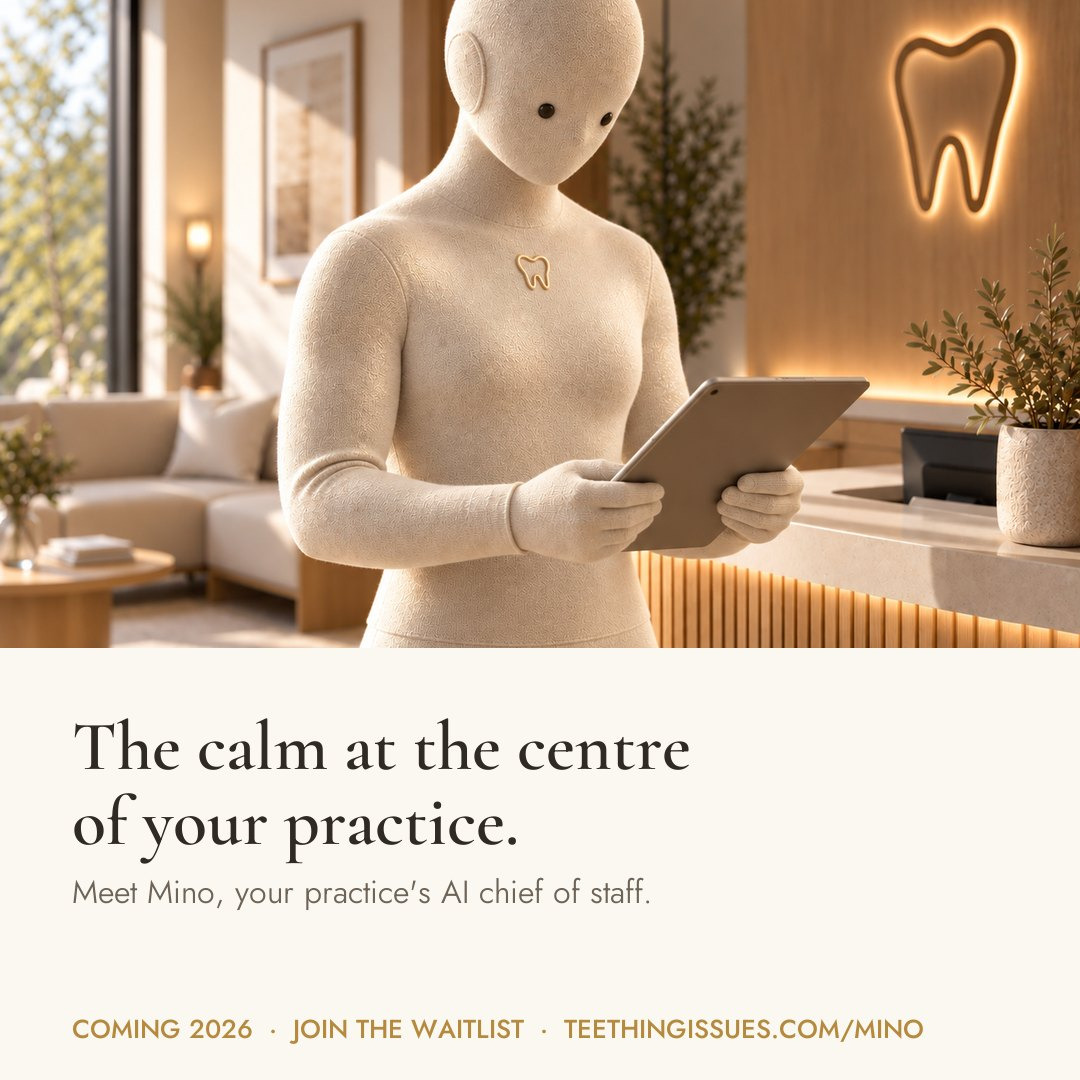
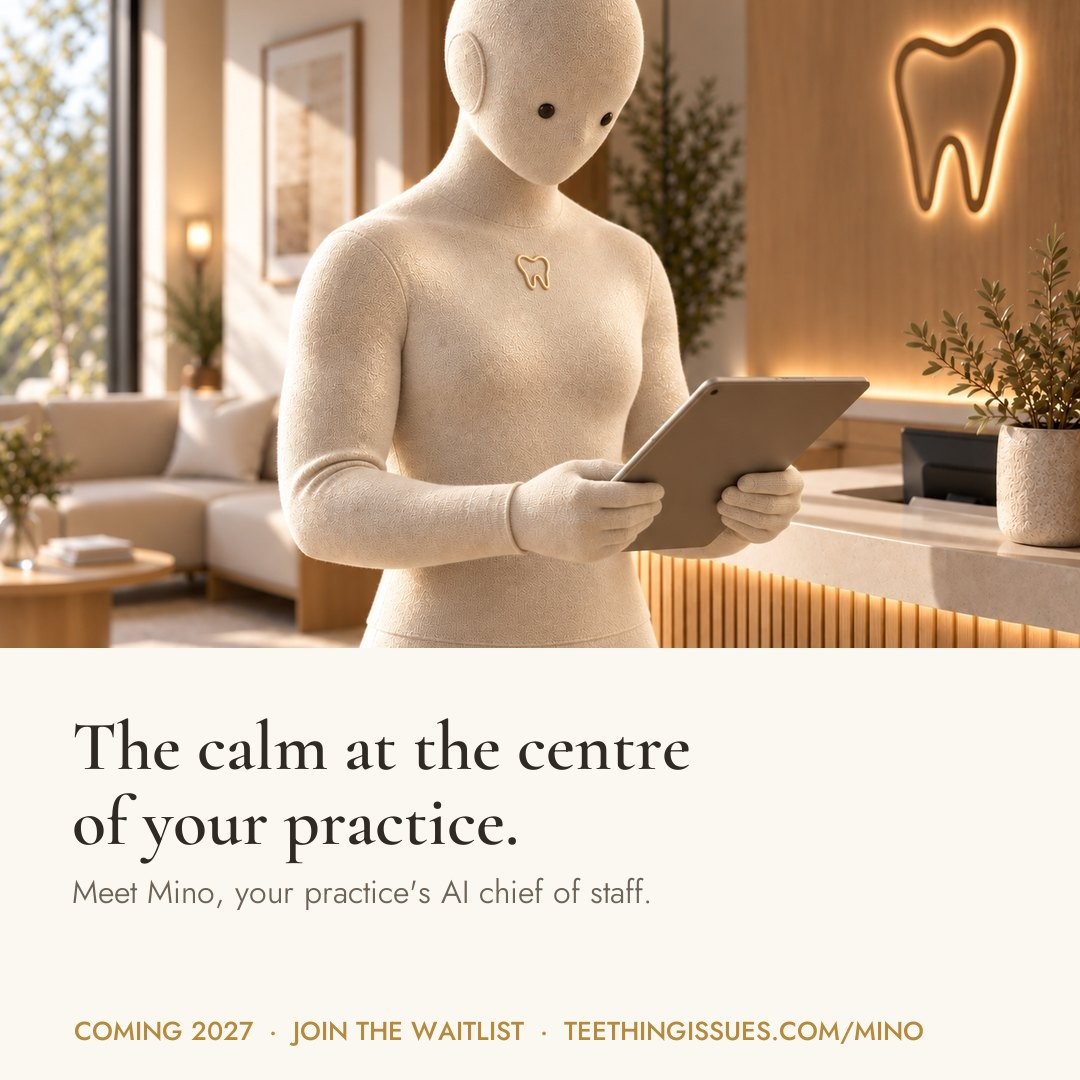
Mino: Coming 2027 (page, ad pack copy, ad images, Showcase)

diff --git a/mino/ads/index.html b/mino/ads/index.html
@@ -34,7 +34,7 @@ footer{margin-top:30px;color:var(--faint);font-size:13px}
 </style></head><body><div class="wrap">
 <span class="status">Draft · not live · no money spent</span>
 <h1>Mino ad pack</h1>
-<p class="lede">Four ads for the Mino "Coming 2026" waitlist, each in the three sizes Facebook and Instagram use. Every ad sends people to <a href="https://teethingissues.com/mino/">teethingissues.com/mino</a>. Nothing runs until the Founder approves a budget and presses publish in Meta Ads Manager.</p>
+<p class="lede">Four ads for the Mino "Coming 2027" waitlist, each in the three sizes Facebook and Instagram use. Every ad sends people to <a href="https://teethingissues.com/mino/">teethingissues.com/mino</a>. Nothing runs until the Founder approves a budget and presses publish in Meta Ads Manager.</p>
 
   <article class="ad">
     <div class="imgs">
@@ -44,7 +44,7 @@ footer{margin-top:30px;color:var(--faint);font-size:13px}
     </div>
     <div class="copy">
       <div class="lbl">Main text</div><p>Running a practice shouldn&#x27;t mean holding everything together on your own. Mino is your practice&#x27;s AI chief of staff: one calm point of contact, with a whole team quietly handling compliance, admin, training and reception behind him. Built by dental professionals, CQC compliance experts and business growth experts. Join the waitlist for first access.</p>
-      <div class="row"><div><div class="lbl">Headline</div><p><b>The calm at the centre of your practice</b></p></div><div><div class="lbl">Description</div><p>Meet Mino. Coming 2026.</p></div><div><div class="lbl">Button</div><p>Sign up</p></div></div>
+      <div class="row"><div><div class="lbl">Headline</div><p><b>The calm at the centre of your practice</b></p></div><div><div class="lbl">Description</div><p>Meet Mino. Coming 2027.</p></div><div><div class="lbl">Button</div><p>Sign up</p></div></div>
     </div>
   </article>
   <article class="ad">
@@ -54,7 +54,7 @@ footer{margin-top:30px;color:var(--faint);font-size:13px}
       <figure><img src="evenings-story.jpg" alt="Your evenings back (story)" loading="lazy"><figcaption>9:16 · Stories &amp; Reels</figcaption></figure>
     </div>
     <div class="copy">
-      <div class="lbl">Main text</div><p>Clinician, manager, HR, marketer… and still doing paperwork at 9pm? Mino takes the reminders, the checklists and the &quot;did anyone check that?&quot; moments off your plate, so you can go home on time. Coming 2026 from Teething Issues. Waitlist practices get first access.</p>
+      <div class="lbl">Main text</div><p>Clinician, manager, HR, marketer… and still doing paperwork at 9pm? Mino takes the reminders, the checklists and the &quot;did anyone check that?&quot; moments off your plate, so you can go home on time. Coming 2027 from Teething Issues. Waitlist practices get first access.</p>
       <div class="row"><div><div class="lbl">Headline</div><p><b>Your evenings back</b></p></div><div><div class="lbl">Description</div><p>Mino handles the paperwork. You go home on time.</p></div><div><div class="lbl">Button</div><p>Sign up</p></div></div>
     </div>
   </article>
@@ -65,7 +65,7 @@ footer{margin-top:30px;color:var(--faint);font-size:13px}
       <figure><img src="cqc-story.jpg" alt="CQC paperwork, quietly handled (story)" loading="lazy"><figcaption>9:16 · Stories &amp; Reels</figcaption></figure>
     </div>
     <div class="copy">
-      <div class="lbl">Main text</div><p>Mino&#x27;s compliance team reads your actual CQC documents, flags what&#x27;s missing or expiring, and gives every gap a named owner and a deadline. Made by people who have sat across the table from real inspectors. Coming 2026. Join the waitlist.</p>
+      <div class="lbl">Main text</div><p>Mino&#x27;s compliance team reads your actual CQC documents, flags what&#x27;s missing or expiring, and gives every gap a named owner and a deadline. Made by people who have sat across the table from real inspectors. Coming 2027. Join the waitlist.</p>
       <div class="row"><div><div class="lbl">Headline</div><p><b>CQC paperwork, quietly handled</b></p></div><div><div class="lbl">Description</div><p>Know you&#x27;re inspection-ready, not just hoping.</p></div><div><div class="lbl">Button</div><p>Sign up</p></div></div>
     </div>
   </article>
@@ -76,7 +76,7 @@ footer{margin-top:30px;color:var(--faint);font-size:13px}
       <figure><img src="team-story.jpg" alt="One calm voice. A whole team behind him. (story)" loading="lazy"><figcaption>9:16 · Stories &amp; Reels</figcaption></figure>
     </div>
     <div class="copy">
-      <div class="lbl">Main text</div><p>You talk to Mino. Mino hands each job to the right specialist, then tells you clearly what&#x27;s done, what needs you, and whose job it is. The AI chief of staff built for UK dental practices. Coming 2026, with first access for waitlist practices.</p>
+      <div class="lbl">Main text</div><p>You talk to Mino. Mino hands each job to the right specialist, then tells you clearly what&#x27;s done, what needs you, and whose job it is. The AI chief of staff built for UK dental practices. Coming 2027, with first access for waitlist practices.</p>
       <div class="row"><div><div class="lbl">Headline</div><p><b>One calm voice. A whole team behind him.</b></p></div><div><div class="lbl">Description</div><p>Compliance, admin, training and reception, coordinated.</p></div><div><div class="lbl">Button</div><p>Sign up</p></div></div>
     </div>
   </article>

diff --git a/mino/index.html b/mino/index.html
@@ -3,10 +3,10 @@
 <head>
 <meta charset="utf-8">
 <meta name="viewport" content="width=device-width,initial-scale=1,viewport-fit=cover">
-<title>Meet Mino | Coming 2026 | Teething Issues</title>
-<meta name="description" content="Mino is the AI chief of staff for UK dental practices, coming in 2026 from Teething Issues. One calm point of contact, with a full team behind him. Join the waitlist for first access.">
+<title>Meet Mino | Coming 2027 | Teething Issues</title>
+<meta name="description" content="Mino is the AI chief of staff for UK dental practices, coming in 2027 from Teething Issues. One calm point of contact, with a full team behind him. Join the waitlist for first access.">
 <link rel="canonical" href="https://teethingissues.com/mino/">
-<meta property="og:title" content="Meet Mino. Coming 2026.">
+<meta property="og:title" content="Meet Mino. Coming 2027.">
 <meta property="og:description" content="The calm at the centre of your dental practice. Join the waitlist for first access.">
 <meta property="og:image" content="https://teethingissues.com/mino/mino.jpg">
 <meta property="og:type" content="website">
@@ -14,7 +14,7 @@
 <link rel="preconnect" href="https://fonts.googleapis.com">
 <link rel="preconnect" href="https://fonts.gstatic.com" crossorigin>
 <link href="https://fonts.googleapis.com/css2?family=Cormorant+Garamond:ital,wght@0,500;0,600;1,500&family=Jost:wght@300;400;500;600&display=swap" rel="stylesheet">
-<script type="application/ld+json">{"@context":"https://schema.org","@type":"Product","name":"Mino","description":"An AI chief of staff for UK dental practices, coming in 2026 from Teething Issues.","brand":{"@type":"Organization","name":"Teething Issues","url":"https://teethingissues.com/"},"image":"https://teethingissues.com/mino/mino.jpg"}</script>
+<script type="application/ld+json">{"@context":"https://schema.org","@type":"Product","name":"Mino","description":"An AI chief of staff for UK dental practices, coming in 2027 from Teething Issues.","brand":{"@type":"Organization","name":"Teething Issues","url":"https://teethingissues.com/"},"image":"https://teethingissues.com/mino/mino.jpg"}</script>
 <style>
 /* Layout: a quiet "coming soon" page in Mino's own world — warm oat knit, soft light, one figure, one ask.
    Split hero (Mino photo + waitlist card); a short "what he'll do" row; three honest questions. */
@@ -96,7 +96,7 @@ footer{border-top:1px solid var(--line);padding-block:26px 40px;color:var(--ink-
 <div class="wrap">
   <nav>
     <a class="brand" href="/">Teething Issues</a>
-    <span class="soon">Coming 2026</span>
+    <span class="soon">Coming 2027</span>
   </nav>
 
   <header class="hero">
@@ -161,7 +161,7 @@ footer{border-top:1px solid var(--line);padding-block:26px 40px;color:var(--ink-
     <h2 class="sec-h">Good to know</h2>
     <div class="qa">
       <div><h3>What is Mino?</h3><p>Mino is an AI chief of staff for UK dental practices, made by Teething Issues. Practice owners talk to Mino, and Mino coordinates a team of specialist AI assistants for compliance, admin, training, reception and growth, telling you clearly which team a finding belongs to.</p></div>
-      <div><h3>When is Mino launching?</h3><p>Mino is coming in 2026. Waitlist practices will be the first to hear, the first to get access, and the first to help shape what Mino does. There's no cost to join the waitlist and no obligation.</p></div>
+      <div><h3>When is Mino launching?</h3><p>Mino is coming in 2027. Waitlist practices will be the first to hear, the first to get access, and the first to help shape what Mino does. There's no cost to join the waitlist and no obligation.</p></div>
       <div><h3>Who is behind Mino?</h3><p>Mino is made by Teething Issues, a team of dental professionals, CQC compliance experts and business growth experts who have worked inside real UK practices. Mino is built around the real jobs that keep practice owners up at night.</p></div>
     </div>
   </section>

diff --git a/showcase/index.html b/showcase/index.html
@@ -175,7 +175,7 @@ footer{margin-top:50px;border-top:1px solid var(--line);padding-top:20px;color:v
       </div>
       <div class="item">
         <h3>Website, offer page and the Mino waitlist</h3>
-        <p>The Teething Issues website, a dedicated AI-visibility offer page for practices, and the Mino "Coming 2026" waitlist, where sign-ups save to a proper email list and each practice tells us its biggest headache. A draft Mino ad campaign is ready to run.</p>
+        <p>The Teething Issues website, a dedicated AI-visibility offer page for practices, and the Mino "Coming 2027" waitlist, where sign-ups save to a proper email list and each practice tells us its biggest headache. A draft Mino ad campaign is ready to run.</p>
         <div class="proof"><b>5</b><span>AI employees running</span></div>
         <div class="links"><a href="https://teethingissues.com/">Website</a> · <a href="https://teethingissues.com/ai-visibility/">AI visibility offer</a> · <a href="https://teethingissues.com/mino/">Mino waitlist</a> · <a href="https://teethingissues.com/mino/ads/">Mino ads</a></div>
       </div>
@@ -226,7 +226,7 @@ footer{margin-top:50px;border-top:1px solid var(--line);padding-top:20px;color:v
 
 <div class="panel" role="tabpanel" id="p-mino" aria-labelledby="t-mino" hidden>
   <section>
-    <span class="tag vision">Coming 2026 · waitlist live</span>
+    <span class="tag vision">Coming 2027 · waitlist live</span>
     <h2>Mino: the calm at the centre of your practice</h2>
     <p class="lede">An AI chief of staff for dental practices. The owner talks to one calm voice; behind him, specialists handle compliance, admin, training and reception. The waitlist is live and asks each practice for its biggest headache.</p>
     <div class="btns">
